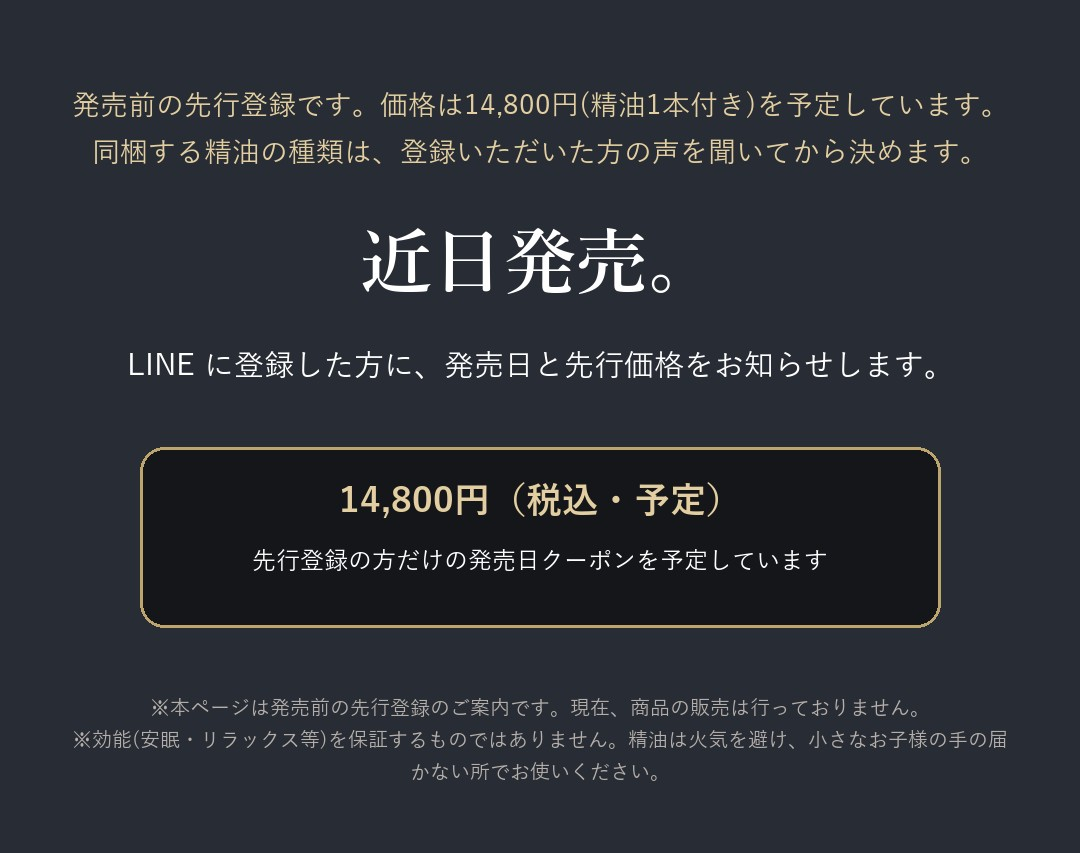
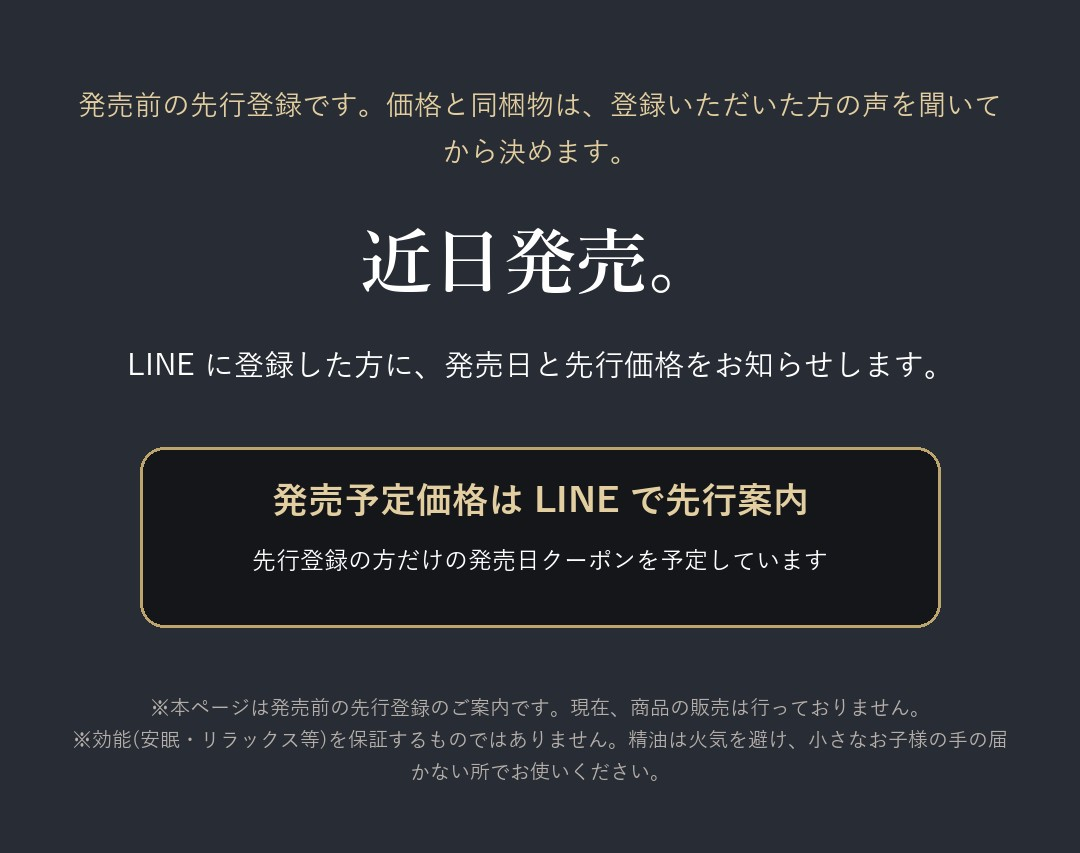
Remove price from stone-a and aroma-a (all LPs: price via LINE)

Changed region(s): [[0.0611, 0.0914, 0.9167, 0.2134], [0.2444, 0.5487, 0.7639, 0.6096]]

diff --git a/aroma-a/index.html b/aroma-a/index.html
@@ -33,16 +33,16 @@ details ul{padding-left:18px}
 </head>
 <body>
 <main>
-<img src="lp01.jpg?v=202611040858" alt="一番上">
-<img src="lp02.jpg?v=202611040858" alt="場面" loading="lazy">
-<img src="lp03.jpg?v=202611040858" alt="なぜ" loading="lazy">
-<img src="lp04.jpg?v=202611040858" alt="ディテール" loading="lazy">
-<img src="lp05.jpg?v=202611040858" alt="一台のこと" loading="lazy">
-<img src="lp06.jpg?v=202611040858" alt="贈る" loading="lazy">
-<img src="lp07.jpg?v=202611040858" alt="発売と価格" loading="lazy">
-<img src="lp08.jpg?v=202611040858" alt="なぜ先行登録" loading="lazy">
-<img src="lp09.jpg?v=202611040858" alt="安心して登録するために" loading="lazy">
-<a href="#" class="line-link"><img src="lp10.jpg?v=202611040858" alt="LINE登録" loading="lazy"></a>
+<img src="lp01.jpg?v=202611040913" alt="一番上">
+<img src="lp02.jpg?v=202611040913" alt="場面" loading="lazy">
+<img src="lp03.jpg?v=202611040913" alt="なぜ" loading="lazy">
+<img src="lp04.jpg?v=202611040913" alt="ディテール" loading="lazy">
+<img src="lp05.jpg?v=202611040913" alt="一台のこと" loading="lazy">
+<img src="lp06.jpg?v=202611040913" alt="贈る" loading="lazy">
+<img src="lp07.jpg?v=202611040913" alt="発売と価格" loading="lazy">
+<img src="lp08.jpg?v=202611040913" alt="なぜ先行登録" loading="lazy">
+<img src="lp09.jpg?v=202611040913" alt="安心して登録するために" loading="lazy">
+<a href="#" class="line-link"><img src="lp10.jpg?v=202611040913" alt="LINE登録" loading="lazy"></a>
 
 <section class="info">
   <h2>運営者情報</h2>

diff --git a/stone-a/index.html b/stone-a/index.html
@@ -33,16 +33,16 @@ details ul{padding-left:18px}
 </head>
 <body>
 <main>
-<img src="lp01.jpg?v=202611040817" alt="一番上">
-<img src="lp02.jpg?v=202611040817" alt="場面" loading="lazy">
-<img src="lp03.jpg?v=202611040817" alt="なぜ" loading="lazy">
-<img src="lp04.jpg?v=202611040817" alt="ディテール" loading="lazy">
-<img src="lp05.jpg?v=202611040817" alt="一台のこと" loading="lazy">
-<img src="lp06.jpg?v=202611040817" alt="贈る" loading="lazy">
-<img src="lp07.jpg?v=202611040817" alt="発売と価格" loading="lazy">
-<img src="lp08.jpg?v=202611040817" alt="なぜ先行登録" loading="lazy">
-<img src="lp09.jpg?v=202611040817" alt="安心して登録するために" loading="lazy">
-<a href="#" class="line-link"><img src="lp10.jpg?v=202611040817" alt="LINE登録" loading="lazy"></a>
+<img src="lp01.jpg?v=202611040913" alt="一番上">
+<img src="lp02.jpg?v=202611040913" alt="場面" loading="lazy">
+<img src="lp03.jpg?v=202611040913" alt="なぜ" loading="lazy">
+<img src="lp04.jpg?v=202611040913" alt="ディテール" loading="lazy">
+<img src="lp05.jpg?v=202611040913" alt="一台のこと" loading="lazy">
+<img src="lp06.jpg?v=202611040913" alt="贈る" loading="lazy">
+<img src="lp07.jpg?v=202611040913" alt="発売と価格" loading="lazy">
+<img src="lp08.jpg?v=202611040913" alt="なぜ先行登録" loading="lazy">
+<img src="lp09.jpg?v=202611040913" alt="安心して登録するために" loading="lazy">
+<a href="#" class="line-link"><img src="lp10.jpg?v=202611040913" alt="LINE登録" loading="lazy"></a>
 
 <section class="info">
   <h2>運営者情報</h2>
